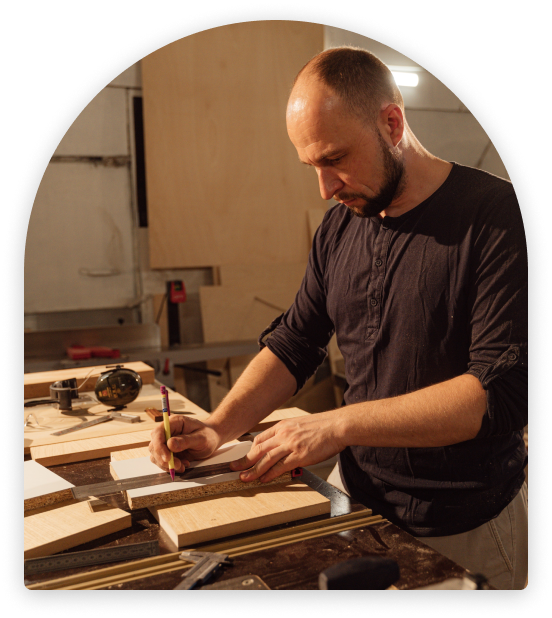
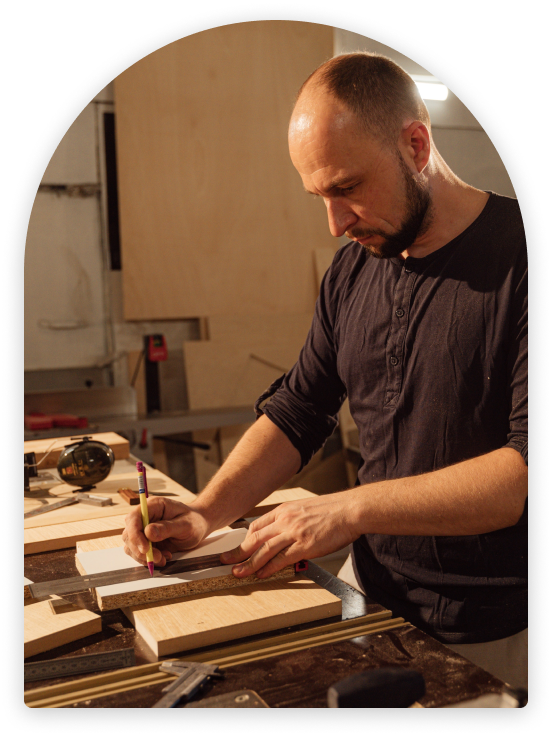
furniture section

diff --git a/components/furniture/Furniture.tsx b/components/furniture/Furniture.tsx
@@ -15,36 +15,64 @@ type FurnitureProps = {
 
 export default function Furniture({ dictionary }: FurnitureProps) {
   const furnitureList = [
-    { id: 1, icon: lukas, text: dictionary.furniture.lukas },
-    { id: 2, icon: tool, text: dictionary.furniture.tool },
-    { id: 3, icon: heart, text: dictionary.furniture.heart },
-    { id: 4, icon: lukas, text: dictionary.furniture.lukas },
-    { id: 5, icon: tool, text: dictionary.furniture.tool },
-    { id: 6, icon: heart, text: dictionary.furniture.heart },
+    {
+      id: 1,
+      icon: tool,
+      title: dictionary.furniture.cardOne.title,
+      text: dictionary.furniture.cardOne.text,
+    },
+    {
+      id: 2,
+      icon: tool,
+      title: dictionary.furniture.cardTwo.title,
+      text: dictionary.furniture.cardTwo.text,
+    },
+    {
+      id: 3,
+      icon: tool,
+      title: dictionary.furniture.cardThree.title,
+      text: dictionary.furniture.cardThree.text,
+    },
   ]
 
   return (
     <div className={styles.root}>
-      <div className={styles.content}>
+      <div>
         <h1 className={styles.title}>
           {dictionary.furniture.titleLineOne} <br />
           {dictionary.furniture.titleLineTwo}
         </h1>
-        <p className={styles.text}>{dictionary.furniture.text}</p>
+        <div className={styles.content}>
+          <p className={styles.text}>{dictionary.furniture.text}</p>
 
-        <div className={styles.table}>
-          {furnitureList.map((item) => (
-            <div key={item.id} className={styles.tableItem}>
-              <Image src={item.icon} alt={item.text} />
-              <p>{item.text}</p>
-            </div>
-          ))}
-        </div>
-        <div className={styles.button}>
-          <FurnitureButton dictionary={dictionary} />
+          <div className={styles.table}>
+            {furnitureList.map((item) => (
+              <div key={item.id} className={styles.tableItem}>
+                <Image src={item.icon} alt={item.text} />
+                <div className={styles.tableContainer}>
+                  <h2>{item.title}</h2>
+                  <p>{item.text}</p>
+                </div>
+              </div>
+            ))}
+          </div>
+
+          <p className={styles.textBottom}>
+            Довірте нам свої бажання, а ми перетворимо їх на реальність.
+            Ознайомтесь з нашим портфоліо!
+          </p>
+          <div className={styles.button}>
+            <FurnitureButton dictionary={dictionary} />
+          </div>
         </div>
       </div>
-      <Image src={image} alt='furniture' width={504} height={570} />
+      <Image
+        className={styles.image}
+        src={image}
+        alt='furniture'
+        width={504}
+        height={714}
+      />
     </div>
   )
 }

diff --git a/components/furniture/Furniture.module.scss b/components/furniture/Furniture.module.scss
@@ -9,36 +9,42 @@
   align-items: start;
   gap: 16px;
   flex-wrap: wrap;
-
-  @media (max-width: 850px) {
-    justify-content: center;
-  }
-}
-
-.content {
-  max-width: 712px;
 }
 
 .title {
+  max-width: 712px;
+  min-height: 100px;
+
   @include title2;
   color: $color-black;
 }
 
+.content {
+  margin-top: 32px;
+  max-width: 608px;
+  min-height: 580px;
+}
+
 .text {
-  margin-top: $margin-32;
-  @include text4;
-  color: $font-color-dark;
+  color: rgba(21, 19, 42, 0.75);
+
+  font-size: 20px;
+  font-style: normal;
+  font-weight: 400;
+  line-height: 150%; /* 30px */
 }
 
 .table {
-  margin-top: $margin-48;
+  margin-top: $margin-32;
+  padding-left: 24px;
   max-width: 650px;
+  min-height: 248px;
 
   display: flex;
   justify-content: space-between;
   align-items: center;
   flex-wrap: wrap;
-  gap: 32px;
+  gap: 16px;
 
   @media (max-width: 700px) {
     justify-content: center;
@@ -46,19 +52,64 @@
 }
 
 .tableItem {
-  width: 308px;
+  max-width: 584px;
+  min-height: 72px;
 
   display: flex;
   justify-content: start;
-  align-items: center;
+  align-items: start;
   gap: 16px;
 
-  p {
-    @include text1;
-    color: $font-color-dark;
+  img {
+    padding-top: 7px;
   }
 }
 
+.tableContainer {
+  margin-left: 16px;
+
+  display: flex;
+  flex-direction: column;
+  justify-content: start;
+
+  h2 {
+    color: #15132a;
+    font-family: Inter;
+    font-size: 20px;
+    font-style: normal;
+    font-weight: 600;
+    line-height: 150%;
+
+    margin-bottom: 13px;
+  }
+
+  p {
+    color: rgba(21, 19, 42, 0.75);
+    font-family: Inter;
+    font-size: 16px;
+    font-style: normal;
+    font-weight: 400;
+    line-height: 150%; /* 24px */
+  }
+}
+
+.textBottom {
+  margin-top: 32px;
+
+  color: rgba(21, 19, 42, 0.75);
+
+  font-size: 20px;
+  font-style: normal;
+  font-weight: 400;
+  line-height: 150%; /* 30px */
+}
+
 .button {
-  margin-top: 48px;
+  margin-top: 32px;
+}
+
+.image {
+  margin-top: 24px;
+  height: 714px;
+  width: 530px;
 }

diff --git a/ui/infoCard/InfoCard.tsx b/ui/infoCard/InfoCard.tsx
@@ -1,8 +1,6 @@
 import Image from 'next/image'
-
-import homeIcon from '../../assets/icons/home-green.svg'
-import styles from './InfoCard.module.scss'
 import Link from 'next/link'
+import styles from './InfoCard.module.scss'
 
 type Props = {
   title: string

diff --git a/components/buttons/FurnitureButton.tsx b/components/buttons/FurnitureButton.tsx
@@ -12,7 +12,7 @@ export default function FurnitureButton({ dictionary }: ButtonProps) {
     <Button
       onClick={scrollToForm}
       title={dictionary.furniture.button}
-      maxWidth={526}
+      maxWidth={608}
       minHeight={56}
     />
   )

diff --git a/ui/infoCard/InfoCard.module.scss b/ui/infoCard/InfoCard.module.scss
@@ -22,7 +22,7 @@
 .text {
   margin-top: 12px;
   @include text5;
-  color: $color-black;
+  color: rgba(21, 19, 42, 0.75);
 }
 
 .button {

diff --git a/ui/button/Button.module.scss b/ui/button/Button.module.scss
@@ -3,6 +3,8 @@
 .root {
   padding: 12px 32px;
 
+  width: 100vw;
+
   display: flex;
   justify-content: center;
   align-items: center;
